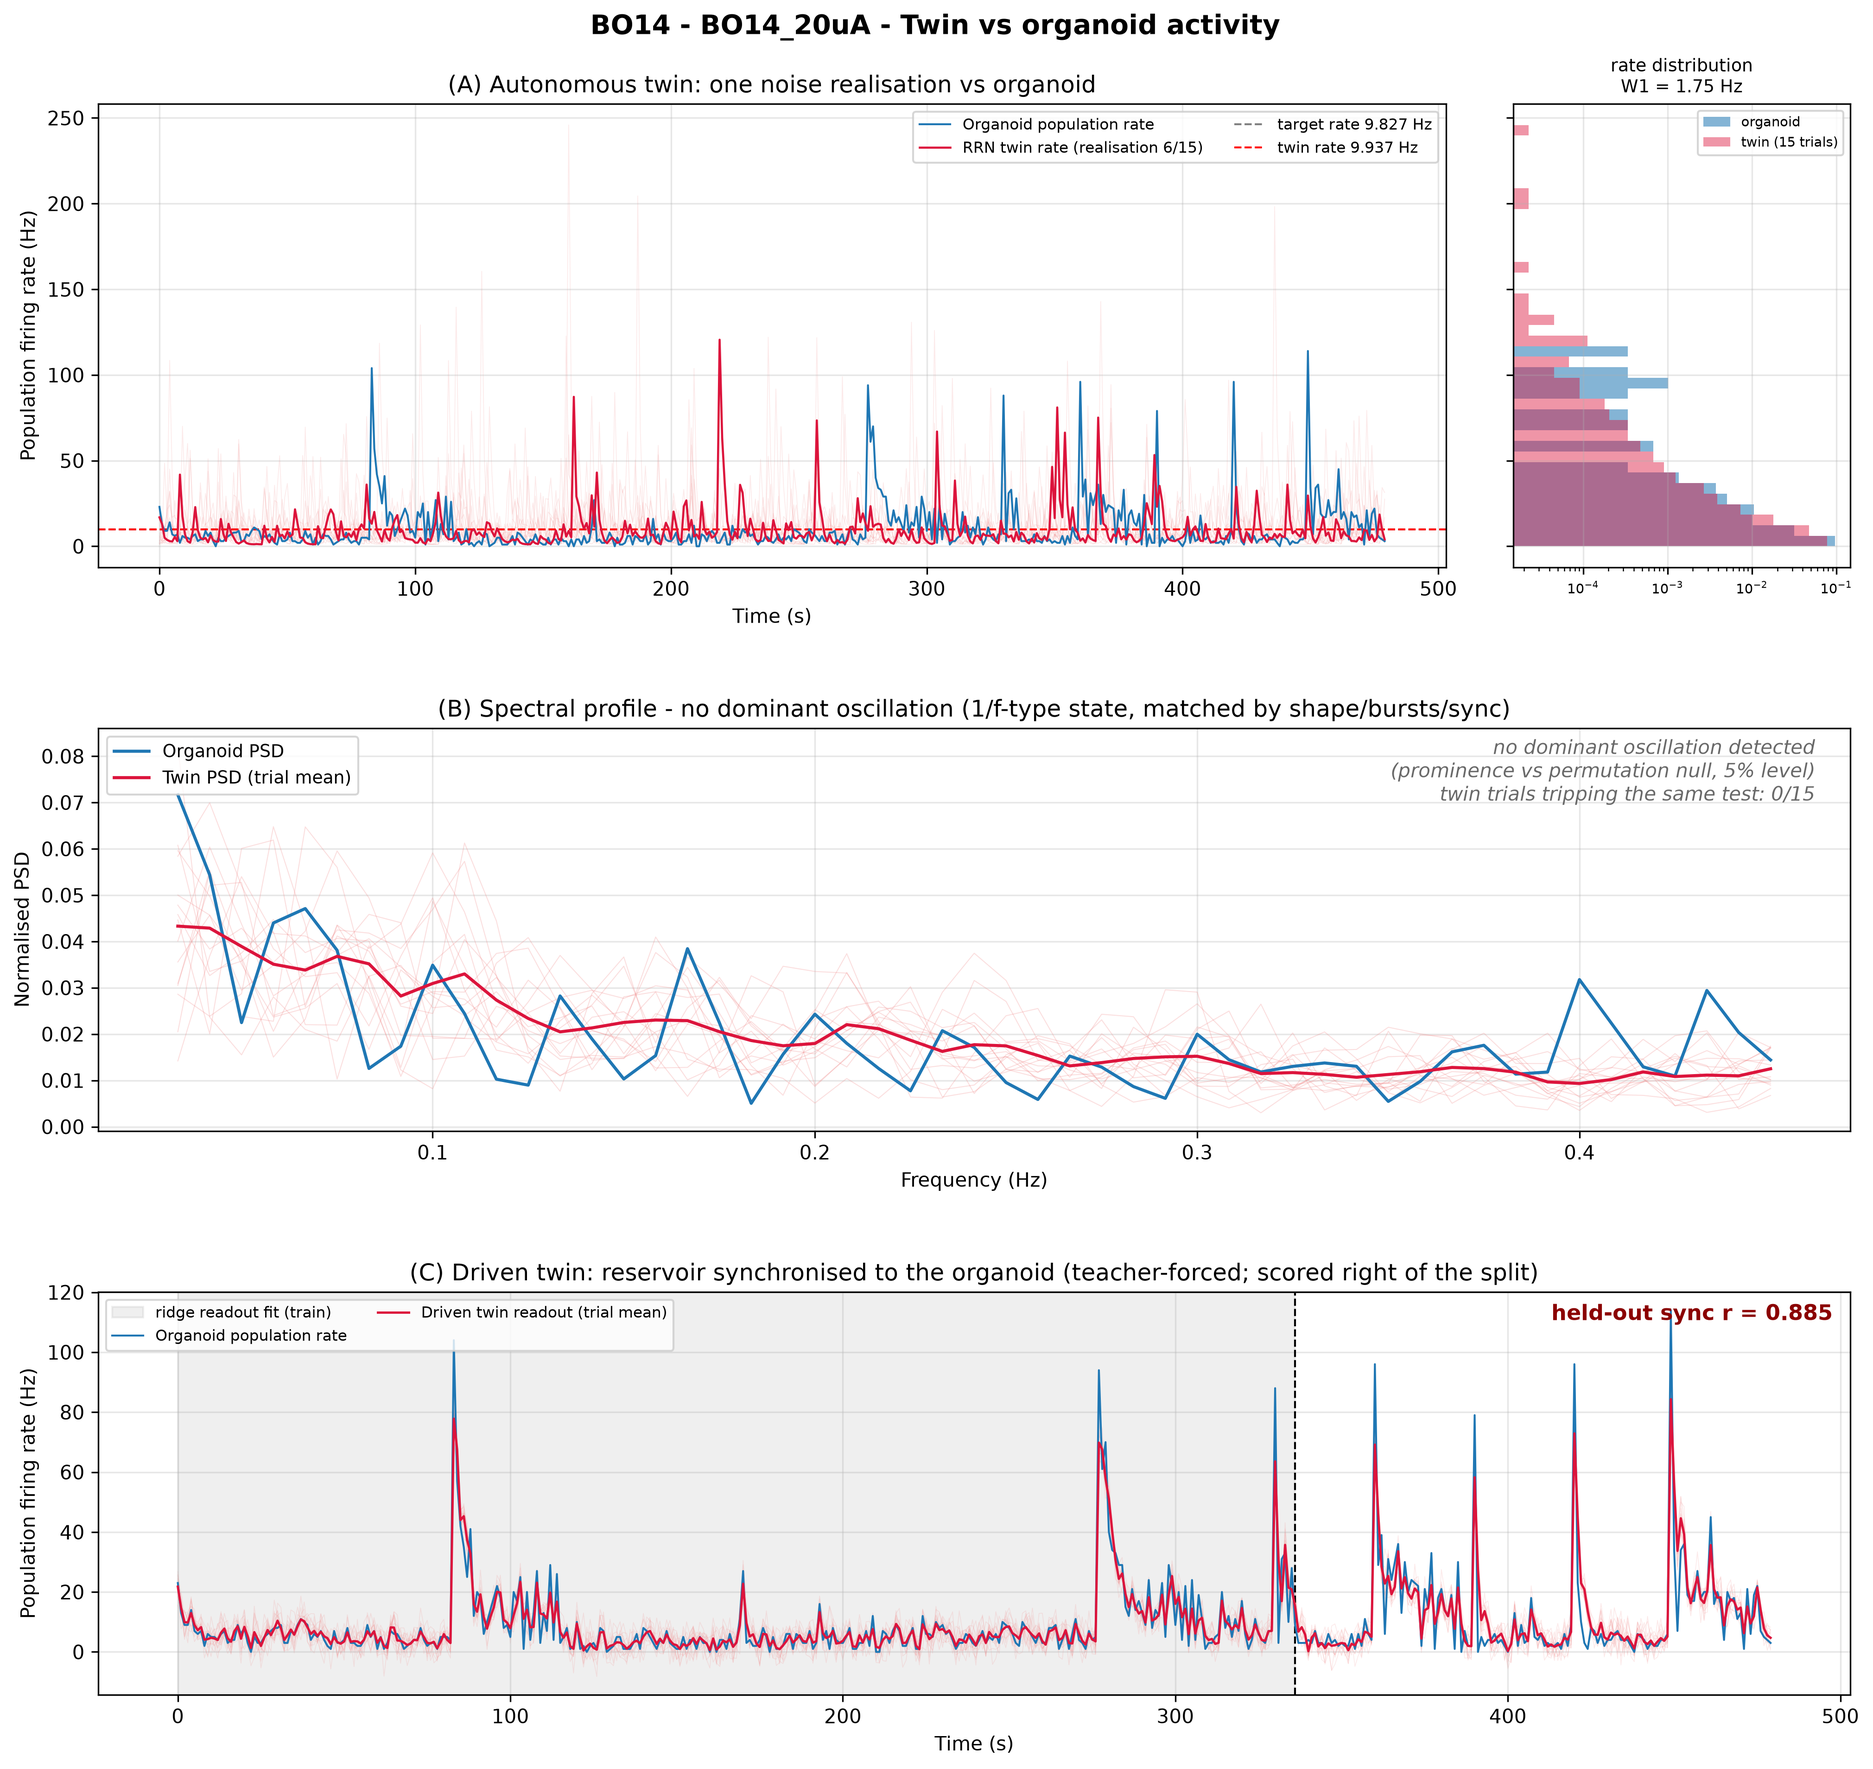
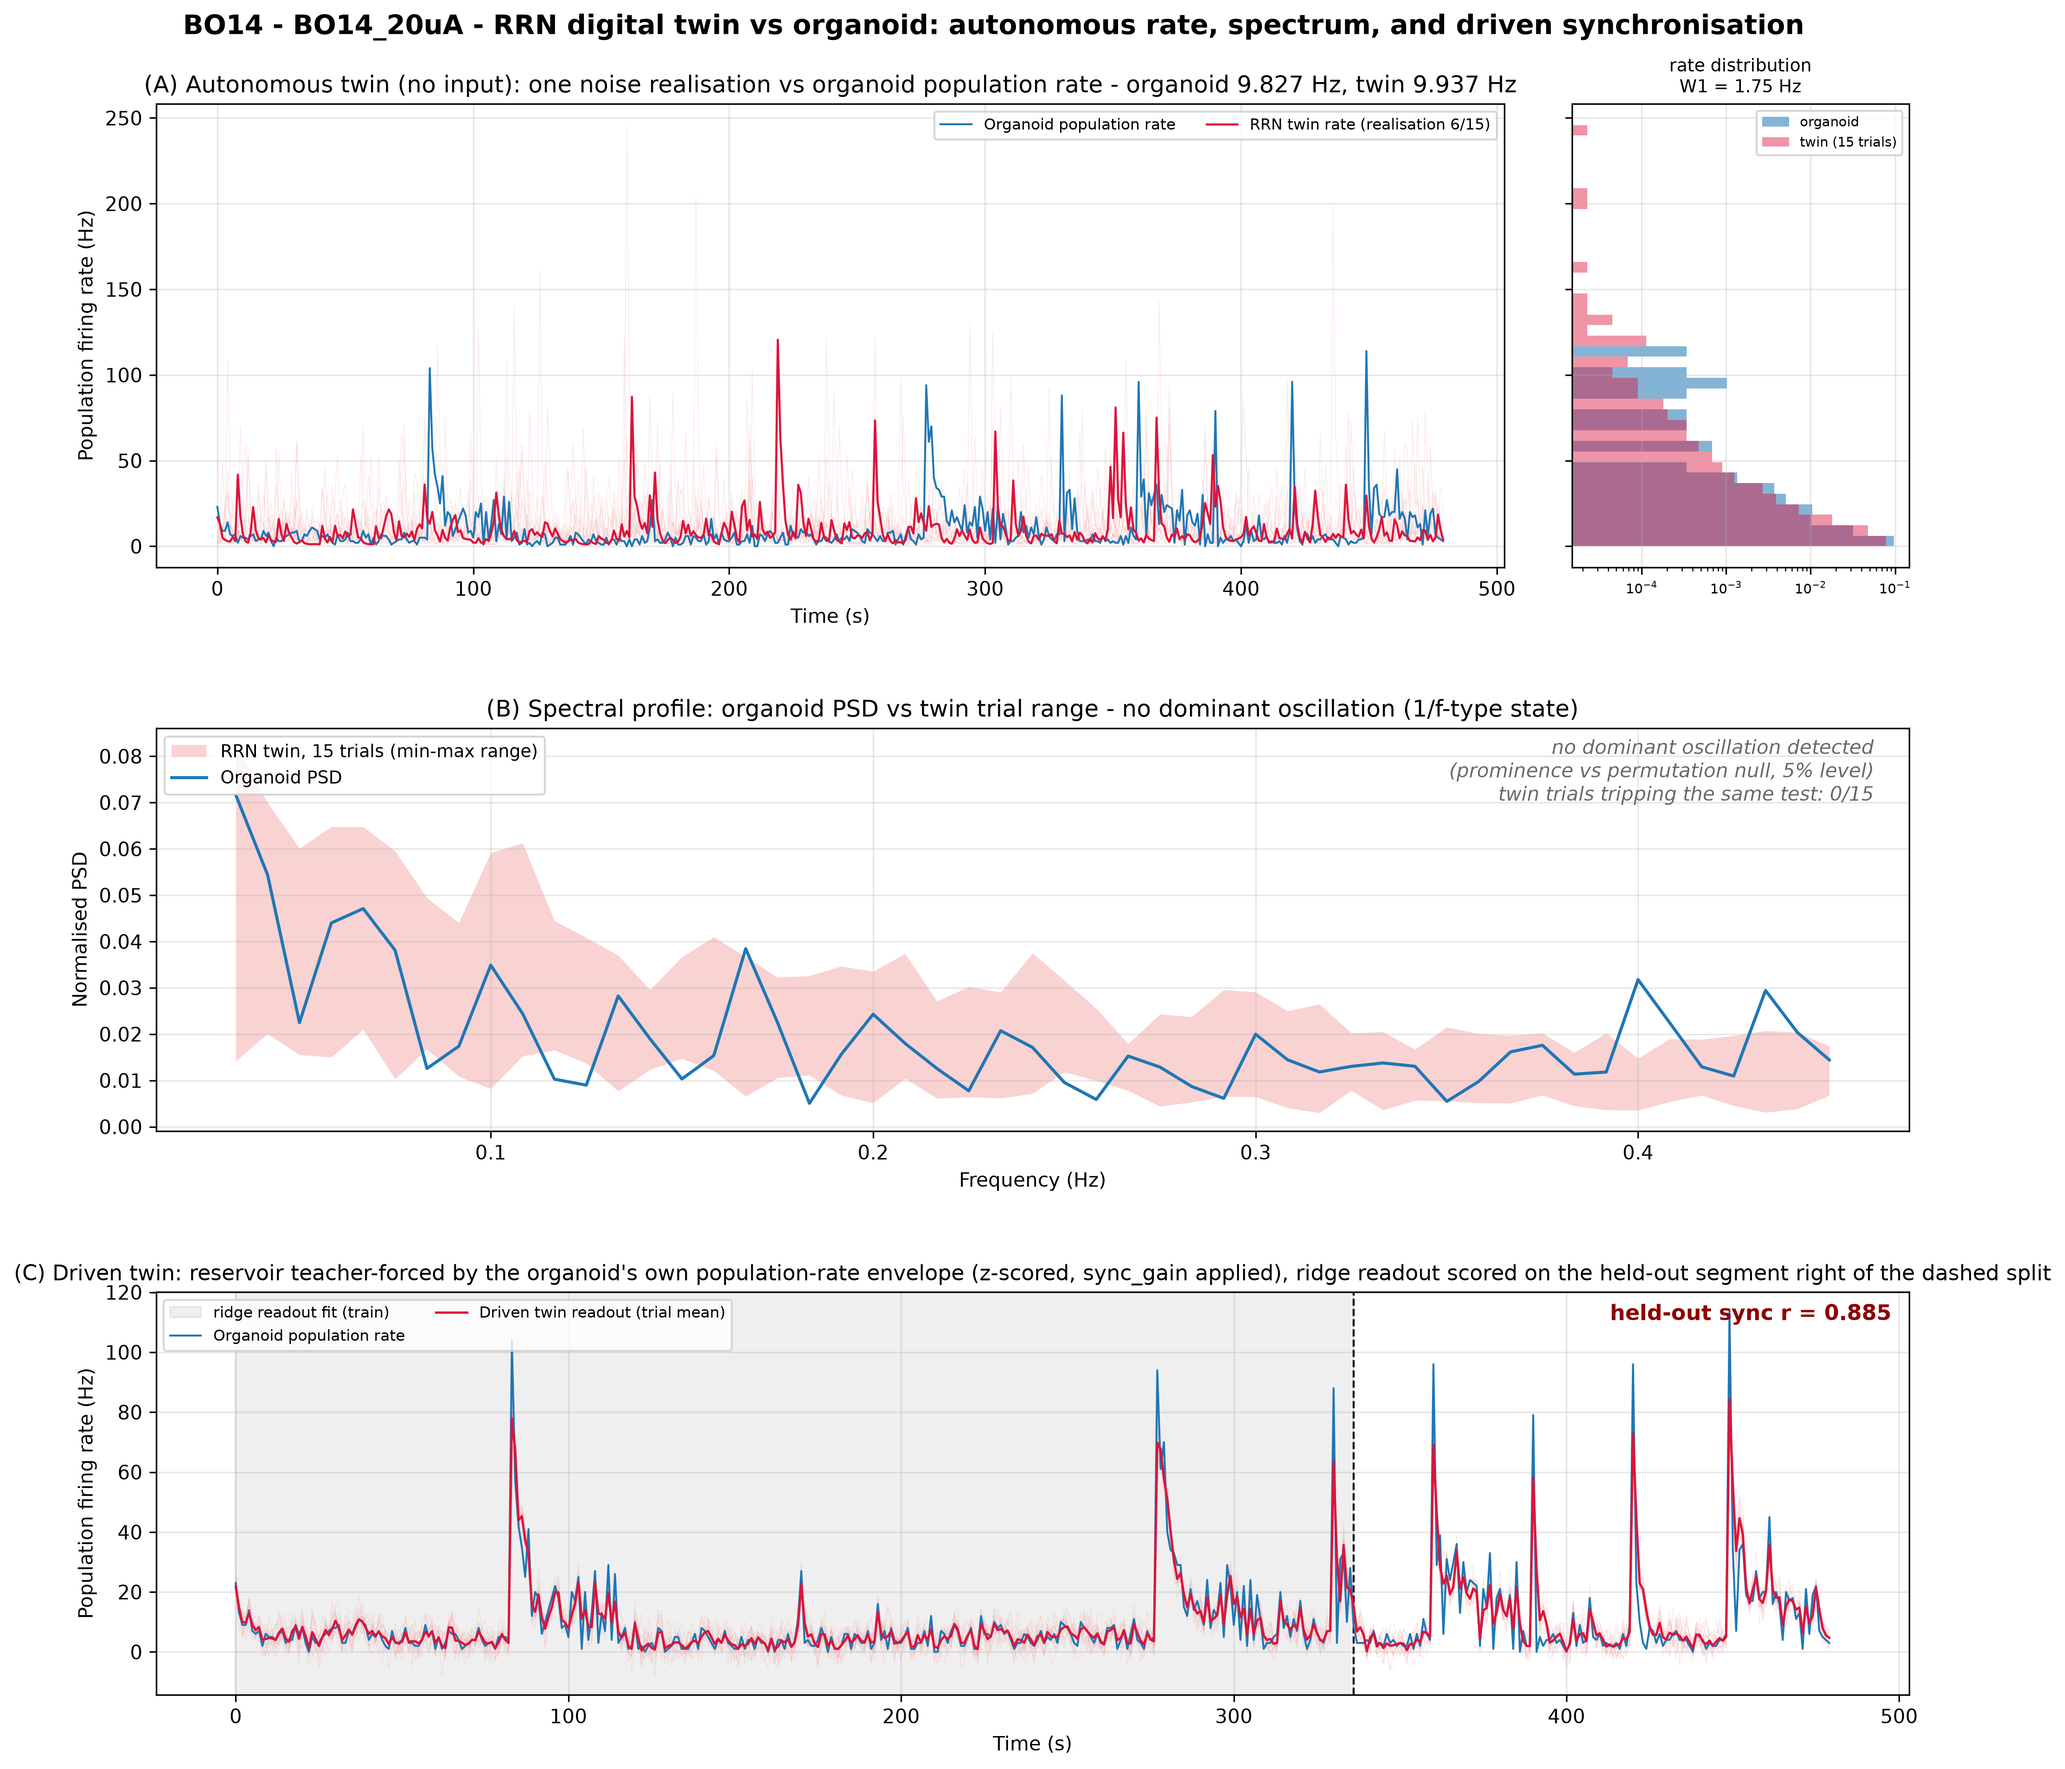
Cleaner twin activity figures: rate lines to titles, PSD min-max band
plot_twin_activity only (no GA/objective changes, no re-fitting):
panel A drops the dashed target/twin rate lines (rates now in the panel
title); panel B replaces the trial-mean PSD and 15 per-trial lines with
a single min-max band under the organoid PSD; descriptive titles state
what is shown and what drives each mode. All 16 figures regenerated from
saved provenance via the new replot_twin_activity.py (rebuilds the twin
from twin_params.json + cached envelope, seconds per state).

Claude-Session: https://claude.ai/code/session_01RN1k6LkDhtBYKgKcY8fSFe

diff --git a/shell_mea_twin_pipeline.py b/shell_mea_twin_pipeline.py
@@ -1687,13 +1687,12 @@ def plot_twin_activity(twin, pop_env, title, output_path, skeleton=None,
               label='Organoid population rate')
     ax_a.plot(t, rate_traces[rep], color='crimson', lw=1.1, zorder=4,
               label=f'RRN twin rate (realisation {rep + 1}/{TWIN_N_TRIALS})')
-    ax_a.axhline(targets['target_rate'], color='gray', ls='--', lw=1.0,
-                 zorder=2, label=f"target rate {targets['target_rate']:.3f} Hz")
-    ax_a.axhline(details['pred_rate'], color='red', ls='--', lw=1.0, zorder=2,
-                 label=f"twin rate {details['pred_rate']:.3f} Hz")
     ax_a.set_xlabel('Time (s)')
     ax_a.set_ylabel('Population firing rate (Hz)')
-    ax_a.set_title('(A) Autonomous twin: one noise realisation vs organoid')
+    ax_a.set_title('(A) Autonomous twin (no input): one noise realisation vs '
+                   'organoid population rate - organoid '
+                   f"{targets['target_rate']:.3f} Hz, twin "
+                   f"{details['pred_rate']:.3f} Hz")
     ax_a.legend(fontsize=8, ncol=2)
     ax_a.grid(True, alpha=0.3)
 
@@ -1712,25 +1711,25 @@ def plot_twin_activity(twin, pop_env, title, output_path, skeleton=None,
     ax_h.legend(fontsize=7, loc='upper right')
     ax_h.grid(True, alpha=0.3)
 
-    # --- (B) spectral profile ---
+    # --- (B) spectral profile: organoid PSD over the twin's trial range ---
     x = detrend(rate_traces, axis=1)
     freqs, psd = welch(x, fs=1.0 / ENV_BIN_S, nperseg=targets['nperseg'], axis=1)
     band = (freqs >= TWIN_PEAK_BAND[0]) & (freqs <= TWIN_PEAK_BAND[1])
     band_psd = psd[:, band]
     band_norm = band_psd / (band_psd.sum(axis=1, keepdims=True) + 1e-30)
-    for row in band_norm:
-        ax_b.plot(freqs[band], row, color='lightcoral', lw=0.5, alpha=0.25)
+    ax_b.fill_between(freqs[band], band_norm.min(axis=0), band_norm.max(axis=0),
+                      color='lightcoral', alpha=0.35, lw=0, zorder=1,
+                      label=f'RRN twin, {TWIN_N_TRIALS} trials (min-max range)')
     ax_b.plot(targets['psd_freqs'], targets['psd_norm'], color='tab:blue',
-              lw=1.6, label='Organoid PSD')
-    ax_b.plot(freqs[band], band_norm.mean(axis=0), color='crimson', lw=1.6,
-              label='Twin PSD (trial mean)')
+              lw=1.6, zorder=3, label='Organoid PSD')
     if targets['target_freq'] is not None:
         ax_b.axvline(targets['target_freq'], color='black', ls='--', lw=1.2,
                      label=f"target {targets['target_freq']:.3f} Hz")
-        ax_b.set_title('(B) Dominant network oscillation (highest peak vs target)')
+        ax_b.set_title('(B) Spectral profile: organoid PSD vs twin trial range '
+                       '- dominant network oscillation vs target')
     else:
-        ax_b.set_title('(B) Spectral profile - no dominant oscillation '
-                       '(1/f-type state, matched by shape/bursts/sync)')
+        ax_b.set_title('(B) Spectral profile: organoid PSD vs twin trial range '
+                       '- no dominant oscillation (1/f-type state)')
         spur = int(round(details.get('twin_peak_frac', 0.0) * TWIN_N_TRIALS))
         ax_b.text(0.98, 0.82, 'no dominant oscillation detected\n'
                   '(prominence vs permutation null, 5% level)\n'
@@ -1766,8 +1765,10 @@ def plot_twin_activity(twin, pop_env, title, output_path, skeleton=None,
               color='darkred', fontweight='bold')
     ax_c.set_xlabel('Time (s)')
     ax_c.set_ylabel('Population firing rate (Hz)')
-    ax_c.set_title('(C) Driven twin: reservoir synchronised to the organoid '
-                   '(teacher-forced; scored right of the split)')
+    ax_c.set_title("(C) Driven twin: reservoir teacher-forced by the "
+                   "organoid's own population-rate envelope (z-scored, "
+                   "sync_gain applied), ridge readout scored on the held-out "
+                   "segment right of the dashed split", fontsize=11)
     ax_c.legend(fontsize=8, ncol=2, loc='upper left')
     ax_c.grid(True, alpha=0.3)
 
@@ -1948,7 +1949,9 @@ def process_recording(rec, out_base):
                            f'{subject} - {label} - NSGA-III optimisation',
                            os.path.join(tw_dir, 'ga_pareto_convergence.png'))
             plot_twin_activity(twin_result, pop_env,
-                               f'{subject} - {label} - Twin vs organoid activity',
+                               f"{subject} - {label} - RRN digital twin vs "
+                               "organoid: autonomous rate, spectrum, and "
+                               "driven synchronisation",
                                os.path.join(tw_dir, 'twin_activity_traces.png'),
                                skeleton=skel, W_values=Wv)
             # CEBRA compares the DRIVEN reservoir's amplitudes (the twin

diff --git a/replot_twin_activity.py b/replot_twin_activity.py
@@ -1,0 +1,67 @@
+"""Regenerate one state's twin_activity_traces.png WITHOUT re-running the GA.
+
+Rebuilds the twin dict from the saved provenance (twin_params.json) and the
+cached population envelope, then calls plot_twin_activity. Use after figure
+cosmetic changes:
+
+    .venv/bin/python replot_twin_activity.py [subject] [label]
+    .venv/bin/python replot_twin_activity.py BO14 BO14_20uA
+"""
+import json
+import os
+import sys
+
+import numpy as np
+
+import shell_mea_twin_pipeline as pipe
+
+
+def _load_pop_env(subject, label):
+    """Cached envelope; falls back to the run_twinning_only loader path."""
+    candidates = [
+        os.path.join('data', 'env_cache', f'{subject}_{label}_env.npz'),
+        os.path.join(str(pipe.DATA_ROOT), 'env_cache',
+                     f'{subject}_{label}_env.npz'),
+    ]
+    for c in candidates:
+        if os.path.exists(c):
+            return np.load(c, allow_pickle=False)['pop_env']
+    import run_twinning_only as rto
+    for rec in pipe.discover_recordings(pipe.DATA_ROOT):
+        if rec['subject'] == subject and rto._label(rec) == label:
+            cache_dir = os.path.join(str(pipe.DATA_ROOT), 'env_cache')
+            os.makedirs(cache_dir, exist_ok=True)
+            pop_env, _ = rto._load_env(rec, cache_dir)
+            return pop_env
+    raise SystemExit(f'No cached envelope or recording found for '
+                     f'{subject} / {label}')
+
+
+def main():
+    subject = sys.argv[1] if len(sys.argv) > 1 else 'BO14'
+    label = sys.argv[2] if len(sys.argv) > 2 else 'BO14_20uA'
+    tw_dir = os.path.join(str(pipe.main_output_dir), subject, 'twinning', label)
+    with open(os.path.join(tw_dir, 'twin_params.json')) as f:
+        saved = json.load(f)
+
+    pop_env = _load_pop_env(subject, label)
+    twin = {'params': saved['rrn_params'],
+            'details': saved['achieved'],
+            'targets': pipe.compute_twin_targets(pop_env)}
+    skel_json = saved['recurrent_skeleton']
+    skeleton = ((np.array(skel_json['rows']), np.array(skel_json['cols']))
+                if skel_json is not None else None)
+    W_values = (np.array(saved['recurrent_weights'])
+                if saved.get('recurrent_weights') is not None else None)
+
+    out = os.path.join(tw_dir, 'twin_activity_traces.png')
+    pipe.plot_twin_activity(
+        twin, pop_env,
+        f"{subject} - {label} - RRN digital twin vs organoid: autonomous "
+        "rate, spectrum, and driven synchronisation",
+        out, skeleton=skeleton, W_values=W_values)
+    print(f'Rewrote {out}')
+
+
+if __name__ == '__main__':
+    main()

diff --git a/run_twinning_only.py b/run_twinning_only.py
@@ -109,7 +109,9 @@ def main():
                     os.path.join(tw_dir, 'ga_pareto_convergence.png'))
                 pipe.plot_twin_activity(
                     tw, pop_env,
-                    f"{rec['subject']} - {label} - Twin vs organoid activity",
+                    f"{rec['subject']} - {label} - RRN digital twin vs "
+                    "organoid: autonomous rate, spectrum, and driven "
+                    "synchronisation",
                     os.path.join(tw_dir, 'twin_activity_traces.png'),
                     skeleton=skel, W_values=Wv)
                 params_json = {
